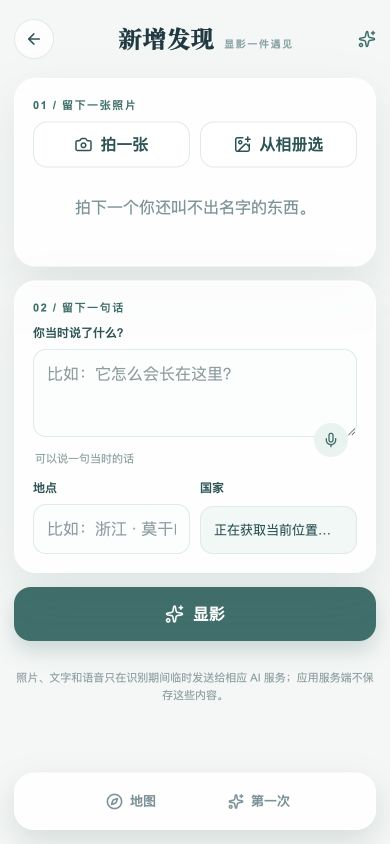
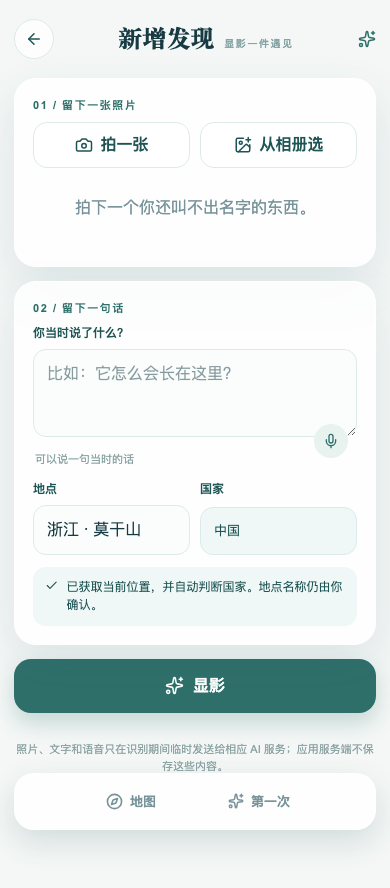
fix: expand vision recognition and seed coverage

diff --git a/scripts/check-seed.ts b/scripts/check-seed.ts
@@ -36,6 +36,7 @@ if (
 
 const items = parsed as Array<{
   id: string;
+  category: string;
   photo: string;
   place: string;
   date: string;
@@ -58,6 +59,18 @@ const missingBasis = items.filter((item) => !item.ai?.luck.basis);
 const nonFirst = items.filter(
   (item) => item.ai?.verdict !== "first" || item.ai.relatedItemId !== null,
 );
+const categoryCounts = items.reduce<Record<string, number>>((counts, item) => ({
+  ...counts,
+  [item.category]: (counts[item.category] ?? 0) + 1,
+}), {});
+const categoryMinimums: Record<string, number> = {
+  artifact: 2,
+  food: 1,
+  animal: 2,
+};
+const missingCategoryMinimums = Object.entries(categoryMinimums)
+  .filter(([category, minimumCount]) => (categoryCounts[category] ?? 0) < minimumCount)
+  .map(([category, minimumCount]) => `${category} ${categoryCounts[category] ?? 0}/${minimumCount}`);
 const publicItems = publicParsed as typeof items;
 const filesMatch = JSON.stringify(parsed) === JSON.stringify(publicParsed);
 const minimum = Number(process.env.SEED_MIN_COUNT ?? "3");
@@ -68,6 +81,7 @@ if (
   missingPhotos.length ||
   missingBasis.length ||
   nonFirst.length ||
+  missingCategoryMinimums.length ||
   !filesMatch ||
   items.length !== publicItems.length
 ) {
@@ -80,6 +94,9 @@ if (
   if (nonFirst.length) {
     console.error(`seed 必须全部为 first: ${nonFirst.map((item) => item.id).join(", ")}`);
   }
+  if (missingCategoryMinimums.length) {
+    console.error(`seed 类别数量不足: ${missingCategoryMinimums.join(", ")}`);
+  }
   if (!filesMatch || items.length !== publicItems.length) {
     console.error("data/seed.json 与 public/seed-data.json 不一致");
   }
@@ -87,7 +104,7 @@ if (
 }
 
 console.log(
-  `items=${items.length} places=${new Set(items.map((item) => item.place)).size} years=[${[
+  `items=${items.length} categories=${JSON.stringify(categoryCounts)} places=${new Set(items.map((item) => item.place)).size} years=[${[
     ...new Set(items.map((item) => item.date.slice(0, 4))),
   ].sort().join(",")}] required_ids=OK photos=OK`,
 );

diff --git a/scripts/ping.ts b/scripts/ping.ts
@@ -18,11 +18,18 @@ const prompt = `请用 JSON 返回照片里最明显的主体：
 async function main() {
   let failures = 0;
   for (const model of ["qwen3-vl-plus", "qwen-vl-max"]) {
-    for (const variant of [
-      { name: "thinking_off_json_off", enableThinking: false, jsonMode: false },
-      { name: "thinking_on_json_off", enableThinking: true, jsonMode: false },
-      { name: "thinking_off_json_on", enableThinking: false, jsonMode: true },
-    ]) {
+    const variants =
+      model === "qwen3-vl-plus"
+        ? [
+            { name: "thinking_off_json_off", enableThinking: false, jsonMode: false },
+            { name: "thinking_on_json_off", enableThinking: true, jsonMode: false },
+            { name: "thinking_off_json_on", enableThinking: false, jsonMode: true },
+          ]
+        : [
+            { name: "thinking_off_json_off", enableThinking: false, jsonMode: false },
+            { name: "thinking_off_json_on", enableThinking: false, jsonMode: true },
+          ];
+    for (const variant of variants) {
       const startedAt = Date.now();
       try {
         const result = await callVision({

diff --git a/src/lib/llm.ts b/src/lib/llm.ts
@@ -57,7 +57,7 @@ export async function callVision({
     ],
     temperature: 0.2,
     max_tokens: 900,
-    extra_body: { enable_thinking: enableThinking },
+    enable_thinking: enableThinking,
   };
 
   if (jsonMode) {
@@ -73,12 +73,19 @@ export async function callVision({
     throw new Error("模型返回为空");
   }
 
+  const message = response.choices[0]?.message as
+    | { reasoning_content?: unknown }
+    | undefined;
   console.info(
     JSON.stringify({
       event: "vision_complete",
       model,
       durationMs: Date.now() - startedAt,
       responseLength: content.length,
+      reasoningPresent: Boolean(
+        typeof message?.reasoning_content === "string" &&
+          message.reasoning_content.trim(),
+      ),
     }),
   );
 

diff --git a/src/app/layout.tsx b/src/app/layout.tsx
@@ -1,4 +1,5 @@
 import type { Metadata } from "next";
+import type { ReactNode } from "react";
 import "./globals.css";
 
 export const metadata: Metadata = {
@@ -6,7 +7,7 @@ export const metadata: Metadata = {
   description: "一个记得你所有第一次的旅行博物志。",
 };
 
-export default function RootLayout({ children }: LayoutProps<"/">) {
+export default function RootLayout({ children }: { children: ReactNode }) {
   return (
     <html lang="zh-CN">
       <body>{children}</body>

diff --git a/src/app/encounter/page.tsx b/src/app/encounter/page.tsx
@@ -96,6 +96,9 @@ export default function EncounterPage() {
         if (!active) return;
         setItems(history);
         const previous = [...history].sort((a, b) => b.date.localeCompare(a.date))[0];
+        if (previous) {
+          setPlace(previous.place);
+        }
         applyFallbackLocation(history);
         setLocationLoading(true);
 

diff --git a/README.md b/README.md
@@ -28,7 +28,7 @@ DASHSCOPE_API_KEY=你的百炼APIKey
 DASHSCOPE_BASE_URL=https://dashscope.aliyuncs.com/compatible-mode/v1
 VISION_MODEL=qwen3-vl-plus
 LLM_THINKING=false
-LLM_JSON_MODE=false
+LLM_JSON_MODE=true
 ```
 
 密钥只放在 `.env.local` 或 Vercel Environment Variables，不提交到 Git。服务端只记录模型名、耗时和返回长度，不记录照片、API key 或模型原文。
@@ -39,18 +39,18 @@ LLM_JSON_MODE=false
 npm run ping
 ```
 
-该命令会测试 `qwen3-vl-plus`、`qwen-vl-max`，并对比 thinking 与 JSON mode；只输出耗时和长度。现场切换备用模型时，只修改 `VISION_MODEL` 后重新部署，不需要改代码。
+该命令会测试 `qwen3-vl-plus`、`qwen-vl-max`，并对 `qwen3-vl-plus` 对比 thinking 与 JSON mode；日志只输出耗时、返回长度和 reasoning 是否存在。实测 `qwen-vl-max` 不接受开启 thinking 的参数，因此备用模型只验证关闭 thinking 与 JSON mode。现场切换备用模型时，只修改 `VISION_MODEL` 后重新部署，不需要改代码。
 
 ## Seed 内容
 
-当前仓库包含 20 条用于演示的 seed 记录，覆盖莫干山粉色叶子、青海玄武岩、七姐妹白崖等真实照片。seed 只使用无人脸、无私人可识别信息的风景、植物、动物或物件照片；正式路演前仍应逐张复核公开素材与地点文案。
+当前仓库包含 25 条用于演示的 seed 记录，覆盖莫干山粉色叶子、青海玄武岩、七姐妹白崖，以及物件、食物和动物照片。seed 只使用无人脸、无私人可识别信息的风景、植物、动物、食物或物件照片；正式路演前仍应逐张复核公开素材与地点文案。
 
 ```bash
 npm run seed:check
 npm run seed:check:final
 ```
 
-`seed:check` 是当前开发门，默认至少 3 条；`seed:check:final` 是路演门，要求至少 20 条。两份 seed JSON 必须一致，所有 seed 必须是 `first`，且 `luck.basis` 非空。
+`seed:check` 是当前开发门，默认至少 3 条；`seed:check:final` 是路演门，要求至少 20 条。两份 seed JSON 必须一致，所有 seed 必须是 `first`，且 `luck.basis` 非空；类别门要求至少 2 条 `artifact`、1 条 `food`、2 条 `animal`。
 
 批量生成 AI 字段：
 
